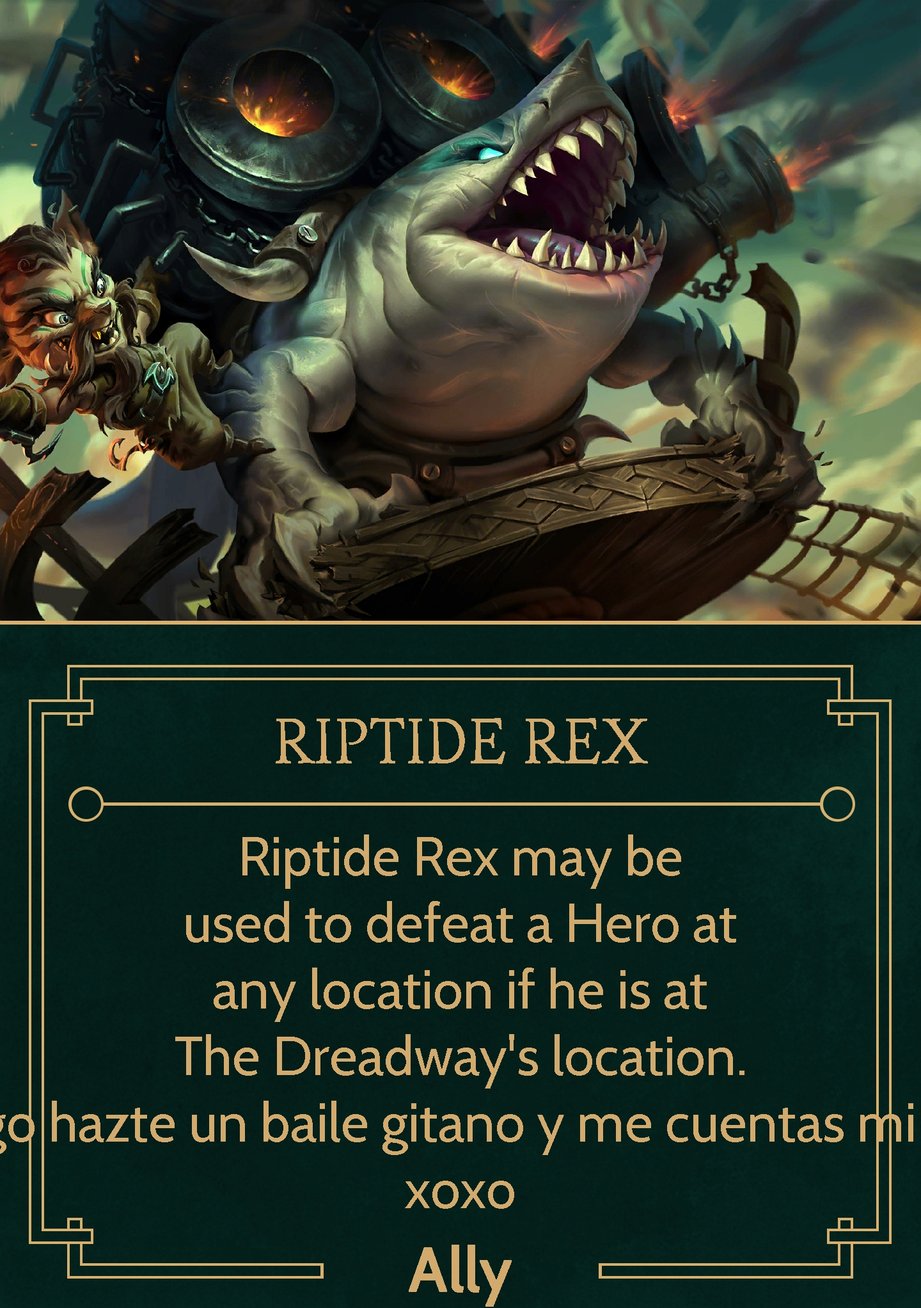
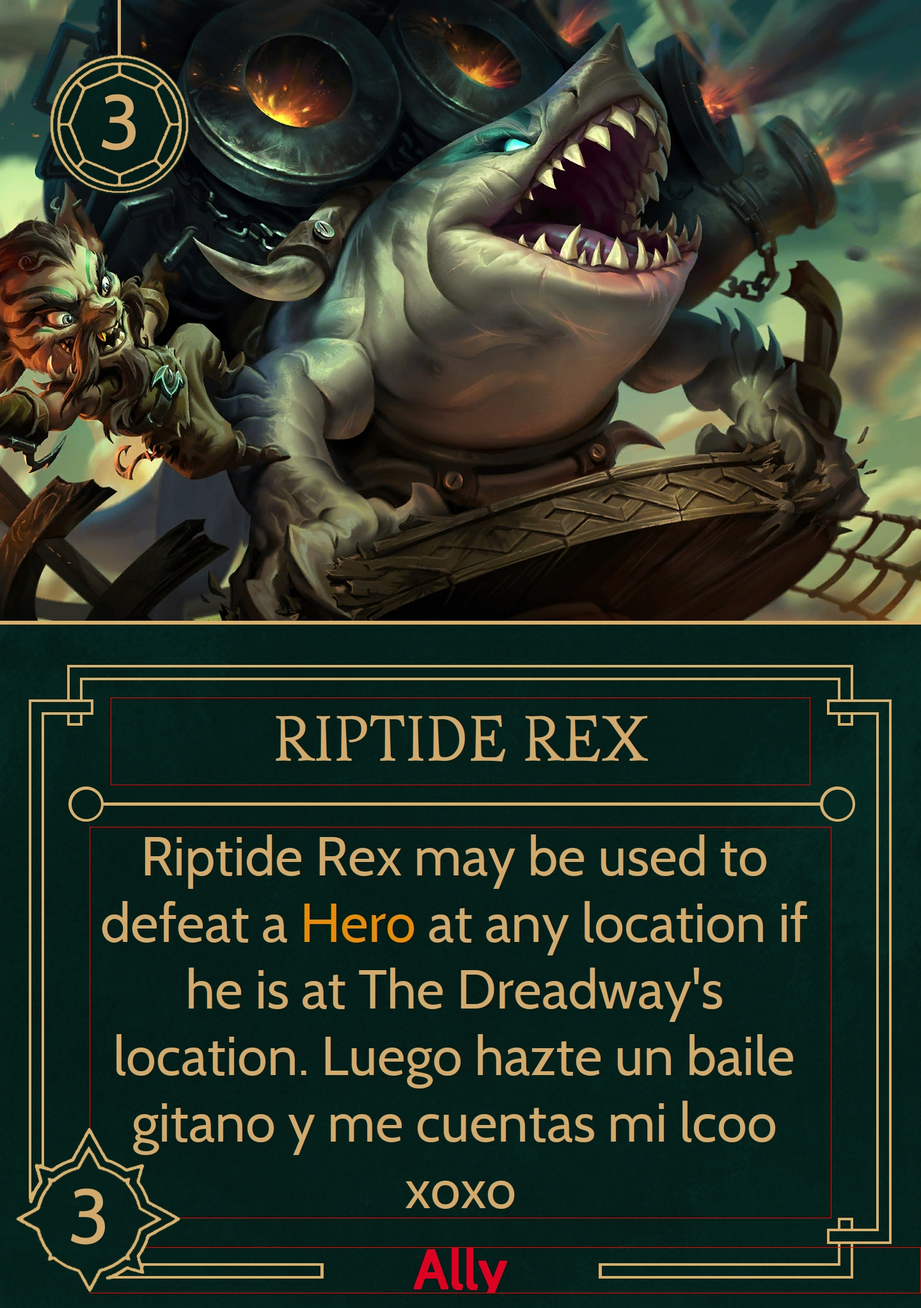
Lots of changes again.
I lost track, once everything works there will be more meaningful commit
descriptions.

diff --git a/Card Photocopier/src/es/cristichi/card_generator/CardGenerator.java b/Card Photocopier/src/es/cristichi/card_generator/CardGenerator.java
@@ -1,9 +1,8 @@
 package es.cristichi.card_generator;
 
 import java.awt.Color;
+import java.awt.Desktop;
 import java.awt.Font;
-import java.awt.Graphics;
-import java.awt.Graphics2D;
 import java.awt.Rectangle;
 import java.awt.font.TextAttribute;
 import java.awt.image.BufferedImage;
@@ -16,7 +15,6 @@ import java.util.Map;
 import java.util.concurrent.Semaphore;
 
 import javax.swing.ImageIcon;
-import javax.swing.JFrame;
 import javax.swing.JLabel;
 import javax.swing.JPanel;
 import javax.swing.SwingConstants;
@@ -165,7 +163,10 @@ public class CardGenerator {
 		panelCard.add(lblDeckTempl);
 
 		// Name
-		JLabel lblName = new JLabel("<html><body style='text-align: center'>"
+		JLabel lblName = new JLabel("<html><style>"
+				+ "html { height: "+NAME_COORDS.height+"; width: "+NAME_COORDS.width+";}"
+				+ "body { height: 100%; width: 100%; text-align: center; }"
+				+ "</style><body>"
 				+ card.name.trim().toUpperCase().replace("   ", " ") + "</body></html>");
 		lblName.setBounds(NAME_COORDS);
 		lblName.setFont(FONT_CARD_NAME);
@@ -175,24 +176,30 @@ public class CardGenerator {
 		lblName.setBorder(new LineBorder(Color.RED, 1));
 		panelCard.add(lblName);
 
-		// Ability TODO: FIX
-		JLabel lblAbility = new JLabel("<html><body style='text-align: center'><span>"
+		// Ability TODO: Fix vertical align
+		JLabel lblAbility = new JLabel("<html><style>"
+				+ "html { height: "+ABILITY_COORDS.height+"; width: "+ABILITY_COORDS.width+";}"
+				+ "body { height: 100%; width: 100%; text-align: center; }"
+				+ "</style><body><p>"
 				+ card.ability.trim().replace("   ", " ").replace("Effect", "<span style=\"color: #7ac424\">Effect</p")
 						.replace("Ally", "<span style=\"color: #de0022\">Ally</span>")
 						.replace("Item", "<span style=\"color: #45afe6\">Item</span>")
 						.replace("Condition", "<span style=\"color: #d3568d\">Condition</span>")
 						.replace("Hero", "<span style=\"color: #e68c0a\">Hero</span>")
-				+ "</span></body></html>");
+				+ "</p></body></html>");
 		lblAbility.setBounds(ABILITY_COORDS);
+		lblAbility.setPreferredSize(ABILITY_COORDS.getSize());
 		lblAbility.setFont(FONT_TEXT_MAX);
 		lblAbility.setForeground(card.deck == "Fate" ? COLOR_TEXT_FATE : COLOR_TEXT_VILLAIN);
-		lblAbility.setHorizontalAlignment(SwingConstants.CENTER);
-		lblAbility.setVerticalAlignment(SwingConstants.CENTER);
 		lblAbility.setBorder(new LineBorder(Color.RED, 1));
+		lblAbility.setVerticalTextPosition(JLabel.TOP);
 		panelCard.add(lblAbility);
 
 		// Type
-		JLabel lblType = new JLabel("<html><body style='text-align: center'>"
+		JLabel lblType = new JLabel("<html><style>"
+				+ "html { height: "+TYPE_COORDS.height+"; width: "+TYPE_COORDS.width+";}"
+				+ "body { height: 100%; width: 100%; text-align: center; }"
+				+ "</style><body'>"
 				+ card.type.trim().replace("Effect", "<span style=\"color: #7ac424\">Effect</span>")
 						.replace("Ally", "<span style=\"color: #de0022\">Ally</span>")
 						.replace("Item", "<span style=\"color: #45afe6\">Item</span>")
@@ -209,7 +216,10 @@ public class CardGenerator {
 
 		// Cost
 		JLabel lblCostIcon = new JLabel();
-		JLabel lblCostText = new JLabel("<html><body style='text-align: center'>" + card.cost + "</body></html>");
+		JLabel lblCostText = new JLabel("<html><style>"
+				+ "html { height: "+COST_COORDS.height+"; width: "+COST_COORDS.width+";}"
+				+ "body { height: 100%; width: 100%; text-align: center; }"
+				+ "</style><body'>" + card.cost + "</body></html>");
 		if (!card.cost.equals("")) {
 			BufferedImage costTempl = DeckTemplate.getTemplateFile(templatesFolder, TemplateType.COST, card.deck);
 			lblCostIcon.setIcon(new ImageIcon(costTempl));
@@ -227,7 +237,10 @@ public class CardGenerator {
 		// Strength
 		JLabel lblStrengthIcon = new JLabel();
 		JLabel lblStrengthText = new JLabel(
-				"<html><body style='text-align: center'>" + card.strength + "</body></html>");
+				"<html><style>"
+				+ "html { height: "+STRENGTH_COORDS.height+"; width: "+STRENGTH_COORDS.width+";}"
+				+ "body { height: 100%; width: 100%; text-align: center; }"
+				+ "</style><body>" + card.strength + "</body></html>");
 		if (!card.strength.equals("")) {
 			BufferedImage strengthTempl = DeckTemplate.getTemplateFile(templatesFolder, TemplateType.STRENGTH,
 					card.deck);
@@ -245,7 +258,10 @@ public class CardGenerator {
 
 		// Top Right
 		JLabel lblTRIcon = new JLabel();
-		JLabel lblTRText = new JLabel("<html><body style='text-align: center'>" + card.topRight + "</body></html>");
+		JLabel lblTRText = new JLabel("<html><style>"
+				+ "html { height: "+TR_COORDS.height+"; width: "+TR_COORDS.width+";}"
+				+ "body { height: 100%; width: 100%; text-align: center; }"
+				+ "</style><body>" + card.topRight + "</body></html>");
 		if (!card.topRight.equals("")) {
 			BufferedImage topRightTempl = DeckTemplate.getTemplateFile(templatesFolder, TemplateType.TOP_RIGHT,
 					card.deck);
@@ -263,7 +279,10 @@ public class CardGenerator {
 
 		// Bottom Right
 		JLabel lblBRIcon = new JLabel();
-		JLabel lblBRText = new JLabel("<html><body style='text-align: center'>" + card.bottomLeft + "</body></html>");
+		JLabel lblBRText = new JLabel("<html><style>"
+				+ "html { height: "+BR_COORDS.height+"; width: "+BR_COORDS.width+";}"
+				+ "body { height: 100%; width: 100%; text-align: center; }"
+				+ "</style><body>" + card.bottomLeft + "</body></html>");
 		if (!card.bottomLeft.equals("")) {
 			BufferedImage topRightTempl = DeckTemplate.getTemplateFile(templatesFolder, TemplateType.BOTTOM_RIGHT,
 					card.deck);
@@ -321,7 +340,7 @@ public class CardGenerator {
 
 		ci.cost = "3";
 		ci.strength = "3";
-		ci.ability = "Riptide Rex may be used to defeat a Hero at any location if he is at The Dreadway's location. Luego hazte un baile gitano y me cuentas mi lcoo xoxo";
+		ci.ability = "Nada loco.";
 
 		ci.activateAbility = "";
 		ci.activateCost = "";
@@ -339,5 +358,6 @@ public class CardGenerator {
 		BufferedImage bi = cGen.generateImage(new File("-Layout"), new File("-Images"), ci);
 
 		Util.writeJpgImage(bi, new File("test.jpg"), 1);
+		Desktop.getDesktop().open(new File("test.jpg"));
 	}
 }
